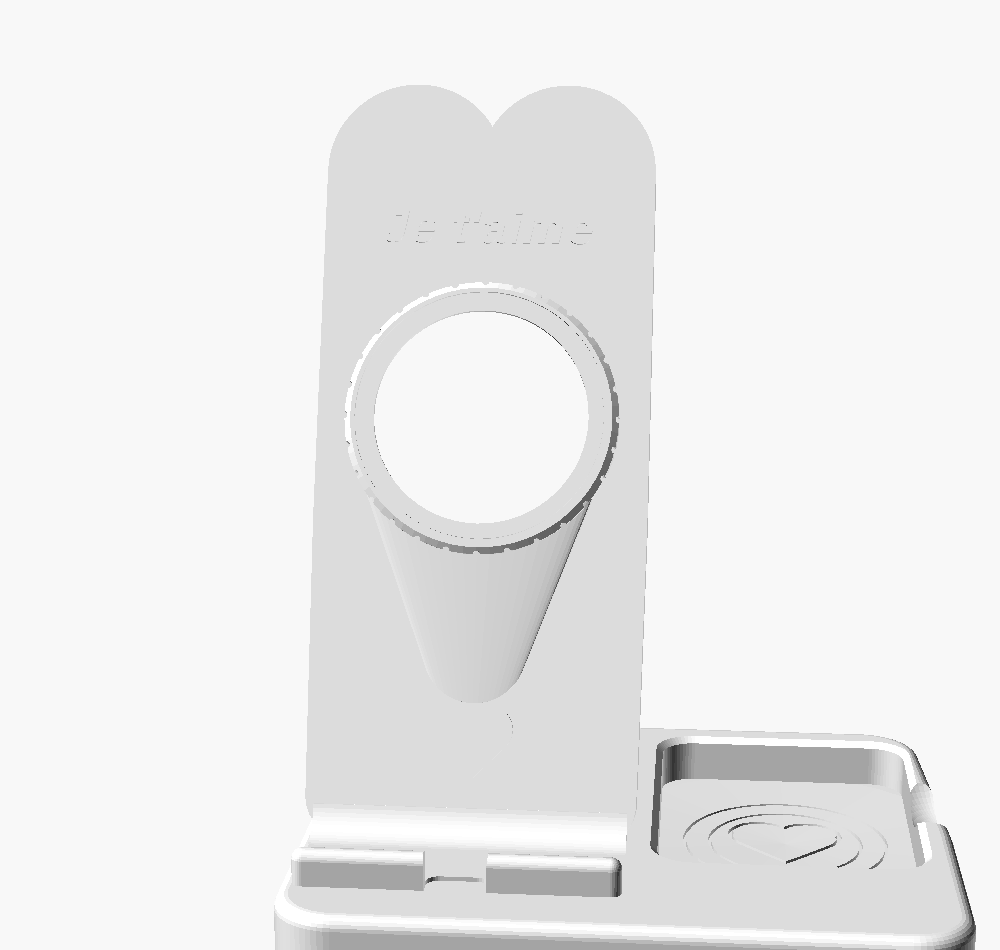
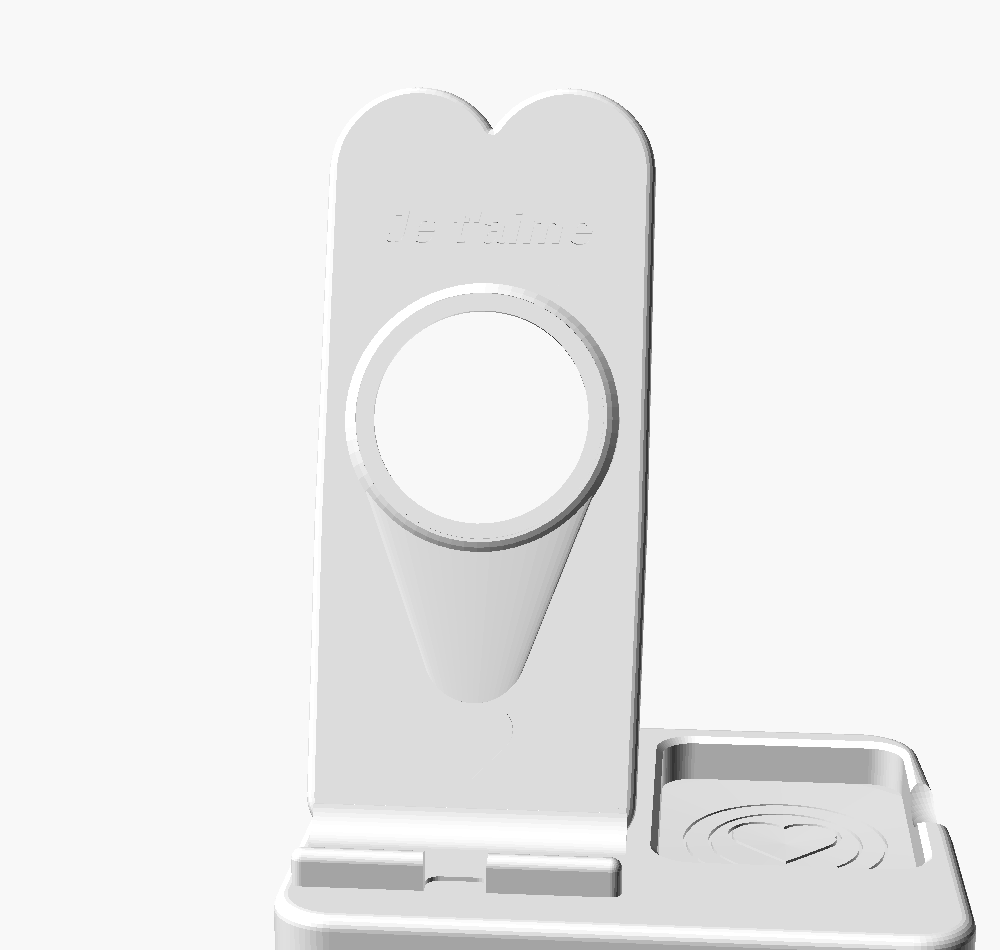
Nouvelle station coeur sur tige d'apres la fiche produit (3 pieces)
Tete en coeur avec chargeur MagSafe affleurant et passage de cable,
tige a rainure clipsante, base vide-poches en coeur avec 'Je t'aime'
grave. Emboitements sans vis, impression sans supports. Egalement :
version arrondie/epuree du corps monobloc precedent (aretes en galet,
phare lisse).

Claude-Session: https://claude.ai/code/session_017gBYG5fbZREvvkYmdwRAPF

diff --git a/station_coeur_magsafe/README.md b/station_coeur_magsafe/README.md
@@ -1,0 +1,54 @@
+# Station chargeur MagSafe en forme de cœur
+
+Station de charge d'après la fiche produit : une **tête en cœur** qui accueille
+le chargeur MagSafe affleurant (la lentille du cœur), une **tige** avec passage
+de câble intégré, une **base vide-poches en cœur** avec « Je t'aime » gravé au
+fond. Trois pièces imprimées, emboîtées sans vis. Pensée pour une **Bambu Lab
+A1**, PLA (rose recommandé !), **sans supports**.
+
+![Assemblage](images/assemblage.png)
+
+| # | Pièce | Fichier | Impression |
+|---|---|---|---|
+| 1 | Cœur (support MagSafe) | `stl/station_coeur.stl` | à plat, dos sur le plateau |
+| 2 | Tige | `stl/station_tige.stl` | debout, brim conseillé |
+| 3 | Base (vide-poches + passage de câble) | `stl/station_base.stl` | à plat |
+
+Dimensions : cœur 100 × 87 × 18 mm, base 104 × 91 × 12 mm, hauteur assemblée
+≈ 138 mm. La tête est inclinée de 12° vers l'arrière ; la hauteur est un peu
+plus généreuse que la fiche (130) pour qu'un iPhone Pro Max ne descende pas
+dans le vide-poches.
+
+## Paramètres (OpenSCAD)
+
+```openscad
+part = "assembly";   // assembly | coeur | tige | base | cable_section
+magsafe_diameter  = 56.2;   // logement Ø ~57, profondeur 5,8 (affleurant)
+head_tilt         = 12;     // inclinaison de la tête
+decorative_text   = "Je t'aime";  // gravé dans le vide-poches
+```
+
+## Impression (Bambu Studio)
+
+PLA, buse 0,4, couche 0,20 mm, 4 parois, remplissage 15–20 % (base : 30 % pour
+le lest), **aucun support**. Orientations déjà appliquées dans les STL.
+
+## Assemblage
+
+1. Clipser le chargeur MagSafe dans le logement à l'avant du cœur (trois
+   bossettes le retiennent ; pour le retirer, le pousser par l'ouverture au
+   dos du cœur).
+2. Passer le câble par l'ouverture sous le chargeur, le descendre au dos du
+   cœur et le clipser dans la rainure à lèvres de la tige.
+3. Glisser la fiche USB-C dans la mortaise de la base, puis emboîter la tige
+   (elle traverse la base et affleure le dessous). Un point de colle
+   cyanoacrylate dans les mortaises rend l'ensemble définitif.
+4. Retourner la base, poser le câble dans la rainure du dessous et le sortir
+   par l'encoche arrière.
+5. Coller 4 patins silicone Ø 8 mm dans leurs logements. C'est prêt.
+
+## Compatibilité
+
+Chargeur MagSafe officiel Apple (Ø 56,2 × 5,7 mm) ; iPhone 12 et suivants.
+Usage intérieur. Le téléphone est tenu par les aimants du chargeur, posé
+en travers du cœur — la bosse caméra passe au-dessus des lobes.